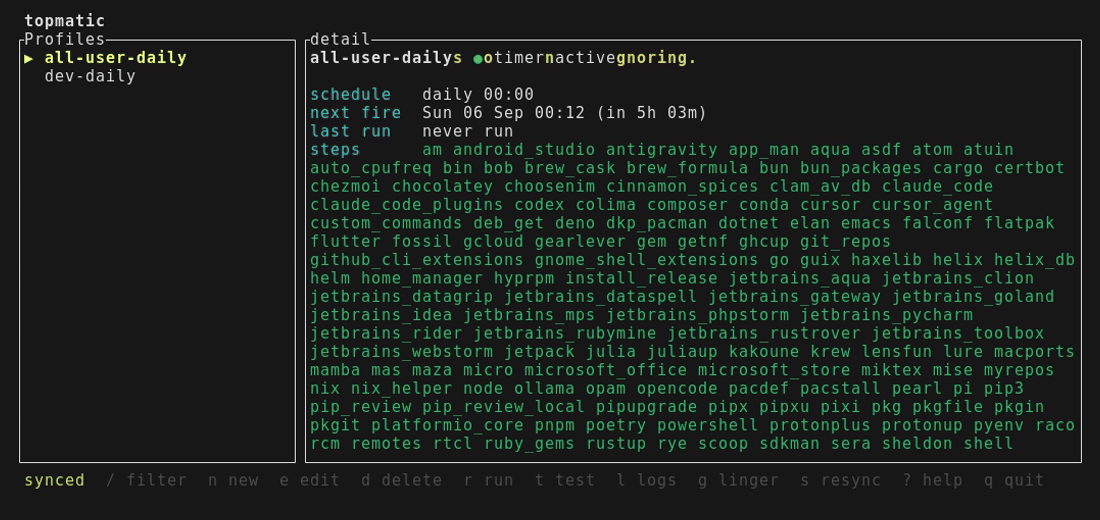
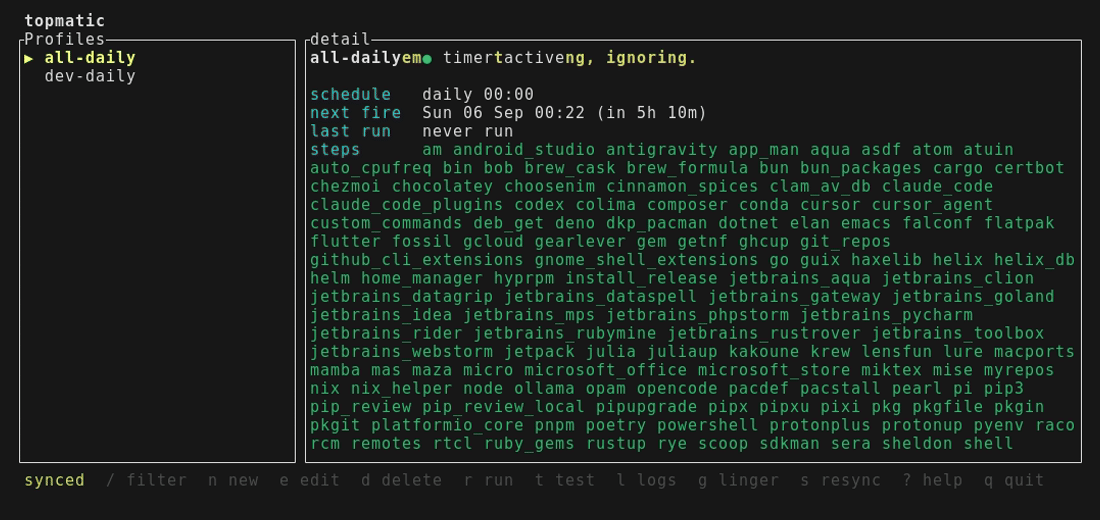
Hide privileged steps entirely and make presets explicit lists with concise names

Changed region(s): [[0.3091, 0.0923, 0.5564, 0.1231], [0.0618, 0.0923, 0.1855, 0.1231]]

diff --git a/src/tui/presets.rs b/src/tui/presets.rs
@@ -1,5 +1,3 @@
-use crate::domain::steps::is_privileged;
-
 pub struct Preset {
     pub label: &'static str,
     pub description: &'static str,
@@ -8,18 +6,18 @@ pub struct Preset {
 
 pub const PRESETS: &[Preset] = &[
     Preset {
-        label: "Everything user-level",
-        description: "all non-privileged steps from your installed topgrade",
-        suggested_name: "all-user-daily",
+        label: "All",
+        description: "every supported step",
+        suggested_name: "all-daily",
     },
     Preset {
         label: "Dev tools",
-        description: "runtimes, languages, editors and dev tooling",
+        description: "runtimes, editors and tooling",
         suggested_name: "dev-daily",
     },
     Preset {
         label: "Flatpak",
-        description: "Flatpak apps and runtimes, with auto-clean",
+        description: "apps and runtimes",
         suggested_name: "flatpak-daily",
     },
 ];
@@ -57,32 +55,196 @@ const DEV_TOOLS: &[&str] = &[
     "opencode",
 ];
 
+pub const ALL_STEPS: &[&str] = &[
+    "am",
+    "android_studio",
+    "antigravity",
+    "app_man",
+    "aqua",
+    "asdf",
+    "atom",
+    "atuin",
+    "auto_cpufreq",
+    "bin",
+    "bob",
+    "brew_cask",
+    "brew_formula",
+    "bun",
+    "bun_packages",
+    "cargo",
+    "certbot",
+    "chezmoi",
+    "chocolatey",
+    "choosenim",
+    "cinnamon_spices",
+    "clam_av_db",
+    "claude_code",
+    "claude_code_plugins",
+    "codex",
+    "colima",
+    "composer",
+    "conda",
+    "cursor",
+    "cursor_agent",
+    "custom_commands",
+    "deb_get",
+    "deno",
+    "dkp_pacman",
+    "dotnet",
+    "elan",
+    "emacs",
+    "falconf",
+    "flatpak",
+    "flutter",
+    "fossil",
+    "gcloud",
+    "gearlever",
+    "gem",
+    "getnf",
+    "ghcup",
+    "git_repos",
+    "github_cli_extensions",
+    "gnome_shell_extensions",
+    "go",
+    "guix",
+    "haxelib",
+    "helix",
+    "helix_db",
+    "helm",
+    "home_manager",
+    "hyprpm",
+    "install_release",
+    "jetbrains_aqua",
+    "jetbrains_clion",
+    "jetbrains_datagrip",
+    "jetbrains_dataspell",
+    "jetbrains_gateway",
+    "jetbrains_goland",
+    "jetbrains_idea",
+    "jetbrains_mps",
+    "jetbrains_phpstorm",
+    "jetbrains_pycharm",
+    "jetbrains_rider",
+    "jetbrains_rubymine",
+    "jetbrains_rustrover",
+    "jetbrains_toolbox",
+    "jetbrains_webstorm",
+    "jetpack",
+    "julia",
+    "juliaup",
+    "kakoune",
+    "krew",
+    "lensfun",
+    "lure",
+    "macports",
+    "mamba",
+    "mas",
+    "maza",
+    "micro",
+    "microsoft_office",
+    "microsoft_store",
+    "miktex",
+    "mise",
+    "myrepos",
+    "nix",
+    "nix_helper",
+    "node",
+    "ollama",
+    "opam",
+    "opencode",
+    "pacdef",
+    "pacstall",
+    "pearl",
+    "pi",
+    "pip3",
+    "pip_review",
+    "pip_review_local",
+    "pipupgrade",
+    "pipx",
+    "pipxu",
+    "pixi",
+    "pkg",
+    "pkgfile",
+    "pkgin",
+    "pkgit",
+    "platformio_core",
+    "pnpm",
+    "poetry",
+    "powershell",
+    "protonplus",
+    "protonup",
+    "pyenv",
+    "raco",
+    "rcm",
+    "remotes",
+    "rtcl",
+    "ruby_gems",
+    "rustup",
+    "rye",
+    "scoop",
+    "sdkman",
+    "sera",
+    "sheldon",
+    "shell",
+    "skills",
+    "soar",
+    "sparkle",
+    "spicetify",
+    "stack",
+    "stew",
+    "tldr",
+    "tlmgr",
+    "tmux",
+    "tpack",
+    "typst",
+    "uv",
+    "vagrant",
+    "vcpkg",
+    "vim",
+    "vite_plus",
+    "volta_packages",
+    "vscode",
+    "vscode_insiders",
+    "vscodium",
+    "vscodium_insiders",
+    "windsurf",
+    "winget",
+    "wsl",
+    "wsl_update",
+    "xcodes",
+    "yadm",
+    "yarn",
+    "yazi",
+    "zerobrew",
+    "zigup",
+    "zvm",
+];
+
+fn known(steps: &[&str], catalog: &[String]) -> Vec<String> {
+    steps
+        .iter()
+        .filter(|step| catalog.iter().any(|known| known == *step))
+        .map(|step| step.to_string())
+        .collect()
+}
+
 pub fn steps_for(index: usize, catalog: &[String]) -> Vec<String> {
     match index {
-        0 => catalog
-            .iter()
-            .filter(|step| !is_privileged(step))
-            .cloned()
-            .collect(),
-        1 => DEV_TOOLS
-            .iter()
-            .filter(|step| catalog.iter().any(|known| known == *step))
-            .map(|step| step.to_string())
-            .collect(),
+        0 => known(ALL_STEPS, catalog),
+        1 => known(DEV_TOOLS, catalog),
         2 => vec!["flatpak".to_string()],
         _ => Vec::new(),
     }
 }
 
 pub fn fallback_catalog() -> Vec<String> {
-    let mut steps: Vec<String> = DEV_TOOLS.iter().map(|s| s.to_string()).collect();
-    steps.push("flatpak".to_string());
-    steps
+    ALL_STEPS.iter().map(|s| s.to_string()).collect()
 }
 
 #[cfg(test)]
 mod tests {
     use super::*;
+    use crate::domain::steps::is_privileged;
 
     const HELP: &str = include_str!("../../tests/fixtures/topgrade_help.txt");
 
@@ -96,15 +258,13 @@ mod tests {
     }
 
     #[test]
-    fn all_user_preset_covers_everything_non_privileged() {
-        let entries = catalog();
-        let steps = steps_for(0, &entries);
-        assert!(!steps.contains(&"system".to_string()));
-        assert!(steps.contains(&"flatpak".to_string()));
-        assert_eq!(
-            steps.len(),
-            entries.iter().filter(|s| !is_privileged(s)).count()
-        );
+    fn all_preset_is_an_explicit_list_without_privileged_steps() {
+        assert!(ALL_STEPS.len() > 150);
+        for step in ALL_STEPS {
+            assert!(!is_privileged(step), "{step} must not be in the all preset");
+        }
+        let catalog = catalog();
+        assert_eq!(steps_for(0, &catalog).len(), catalog.len());
     }
 
     #[test]
@@ -112,7 +272,6 @@ mod tests {
         let steps = steps_for(1, &catalog());
         assert!(steps.contains(&"cargo".to_string()));
         assert!(!steps.contains(&"flatpak".to_string()));
-        assert!(!steps.contains(&"winget".to_string()));
     }
 
     #[test]
@@ -127,5 +286,16 @@ mod tests {
         unique.sort();
         unique.dedup();
         assert_eq!(unique.len(), steps.len());
+    }
+
+    #[test]
+    fn preset_names_follow_description_frequency_format() {
+        for preset in PRESETS {
+            assert!(
+                preset.suggested_name.ends_with("-daily"),
+                "{}",
+                preset.suggested_name
+            );
+        }
     }
 }

diff --git a/src/domain/steps.rs b/src/domain/steps.rs
@@ -48,6 +48,9 @@ pub fn parse_steps(help_text: &str) -> Vec<String> {
 
 pub fn catalog(help_text: &str) -> Vec<String> {
     parse_steps(help_text)
+        .into_iter()
+        .filter(|step| !is_privileged(step))
+        .collect()
 }
 
 pub fn is_privileged(step: &str) -> bool {
@@ -102,5 +105,14 @@ mod tests {
         assert!(is_privileged("firmware"));
         assert!(!is_privileged("flatpak"));
         assert!(!is_privileged("cargo"));
+    }
+
+    #[test]
+    fn catalog_hides_privileged_steps_from_selection() {
+        let steps = catalog(HELP);
+        assert!(!steps.iter().any(|s| is_privileged(s)));
+        assert!(!steps.contains(&"system".to_string()));
+        assert!(!steps.contains(&"firmware".to_string()));
+        assert!(steps.contains(&"flatpak".to_string()));
     }
 }
